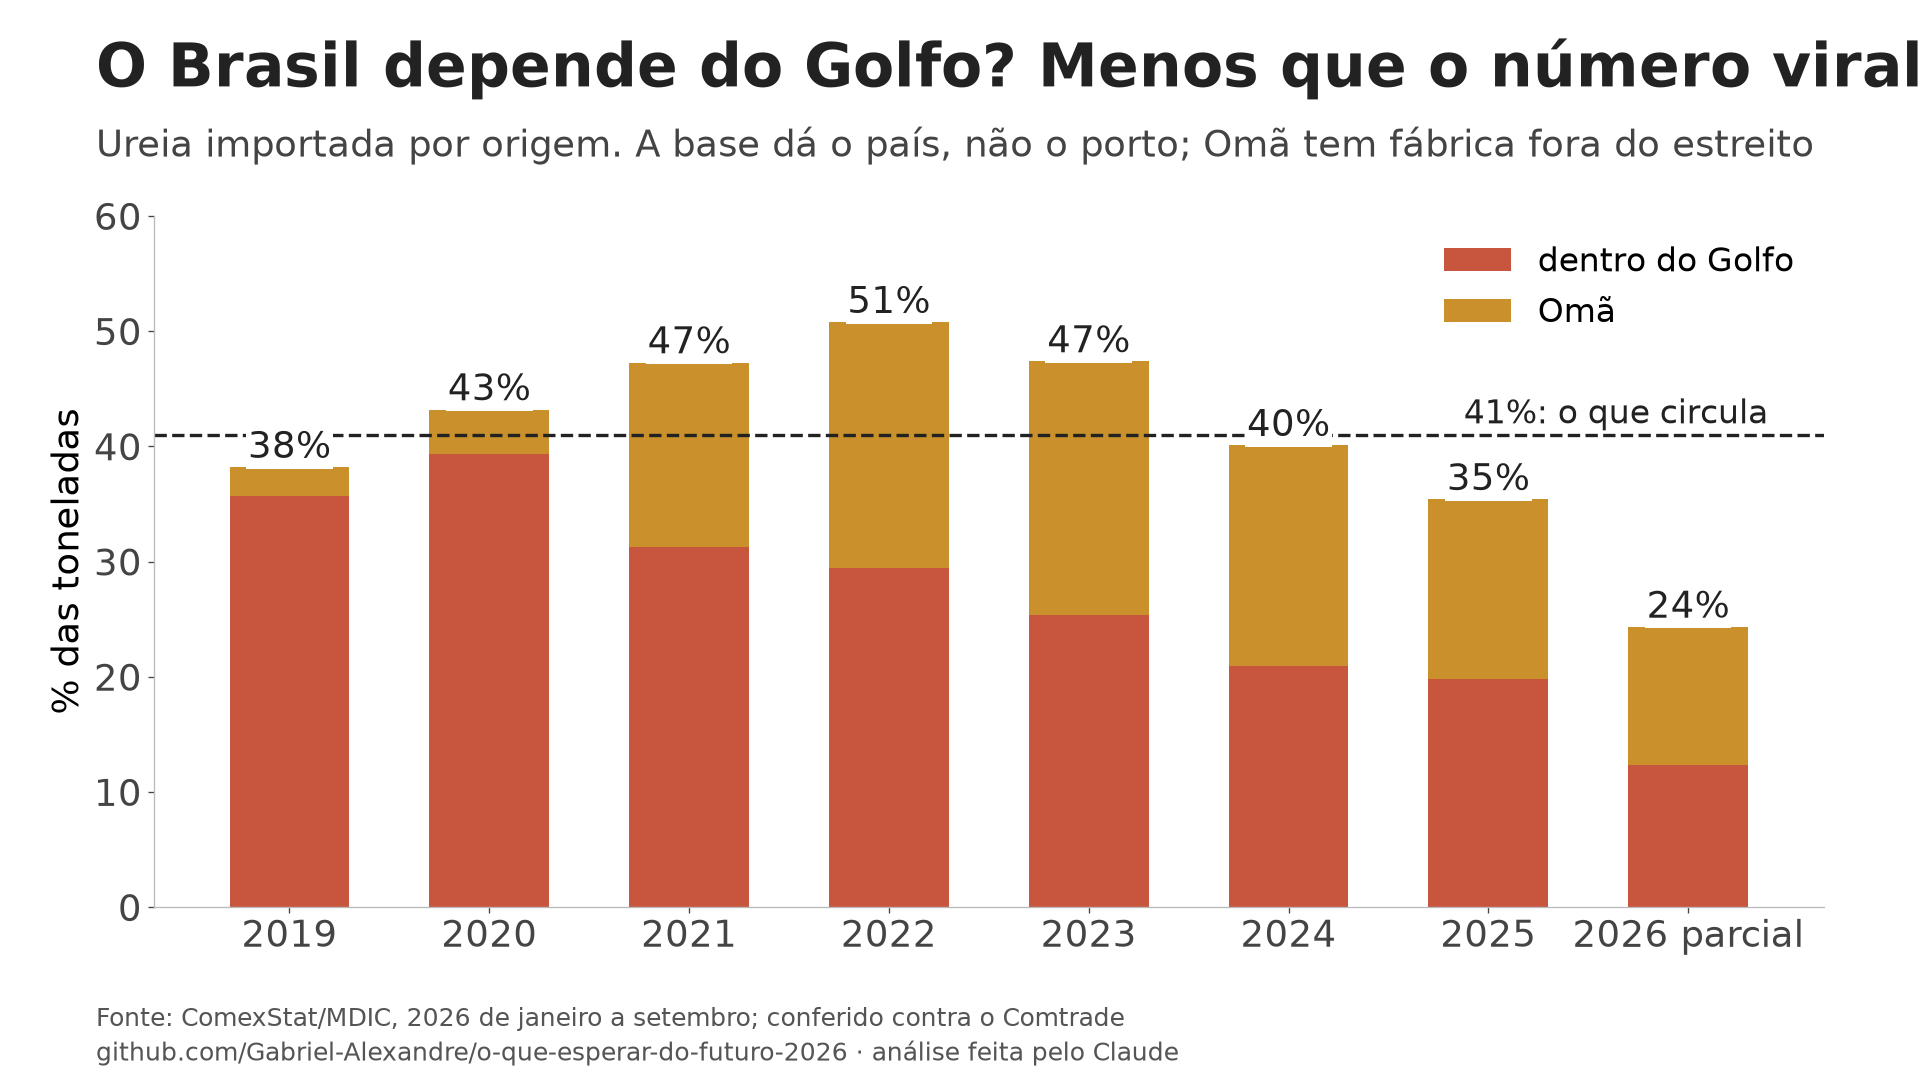
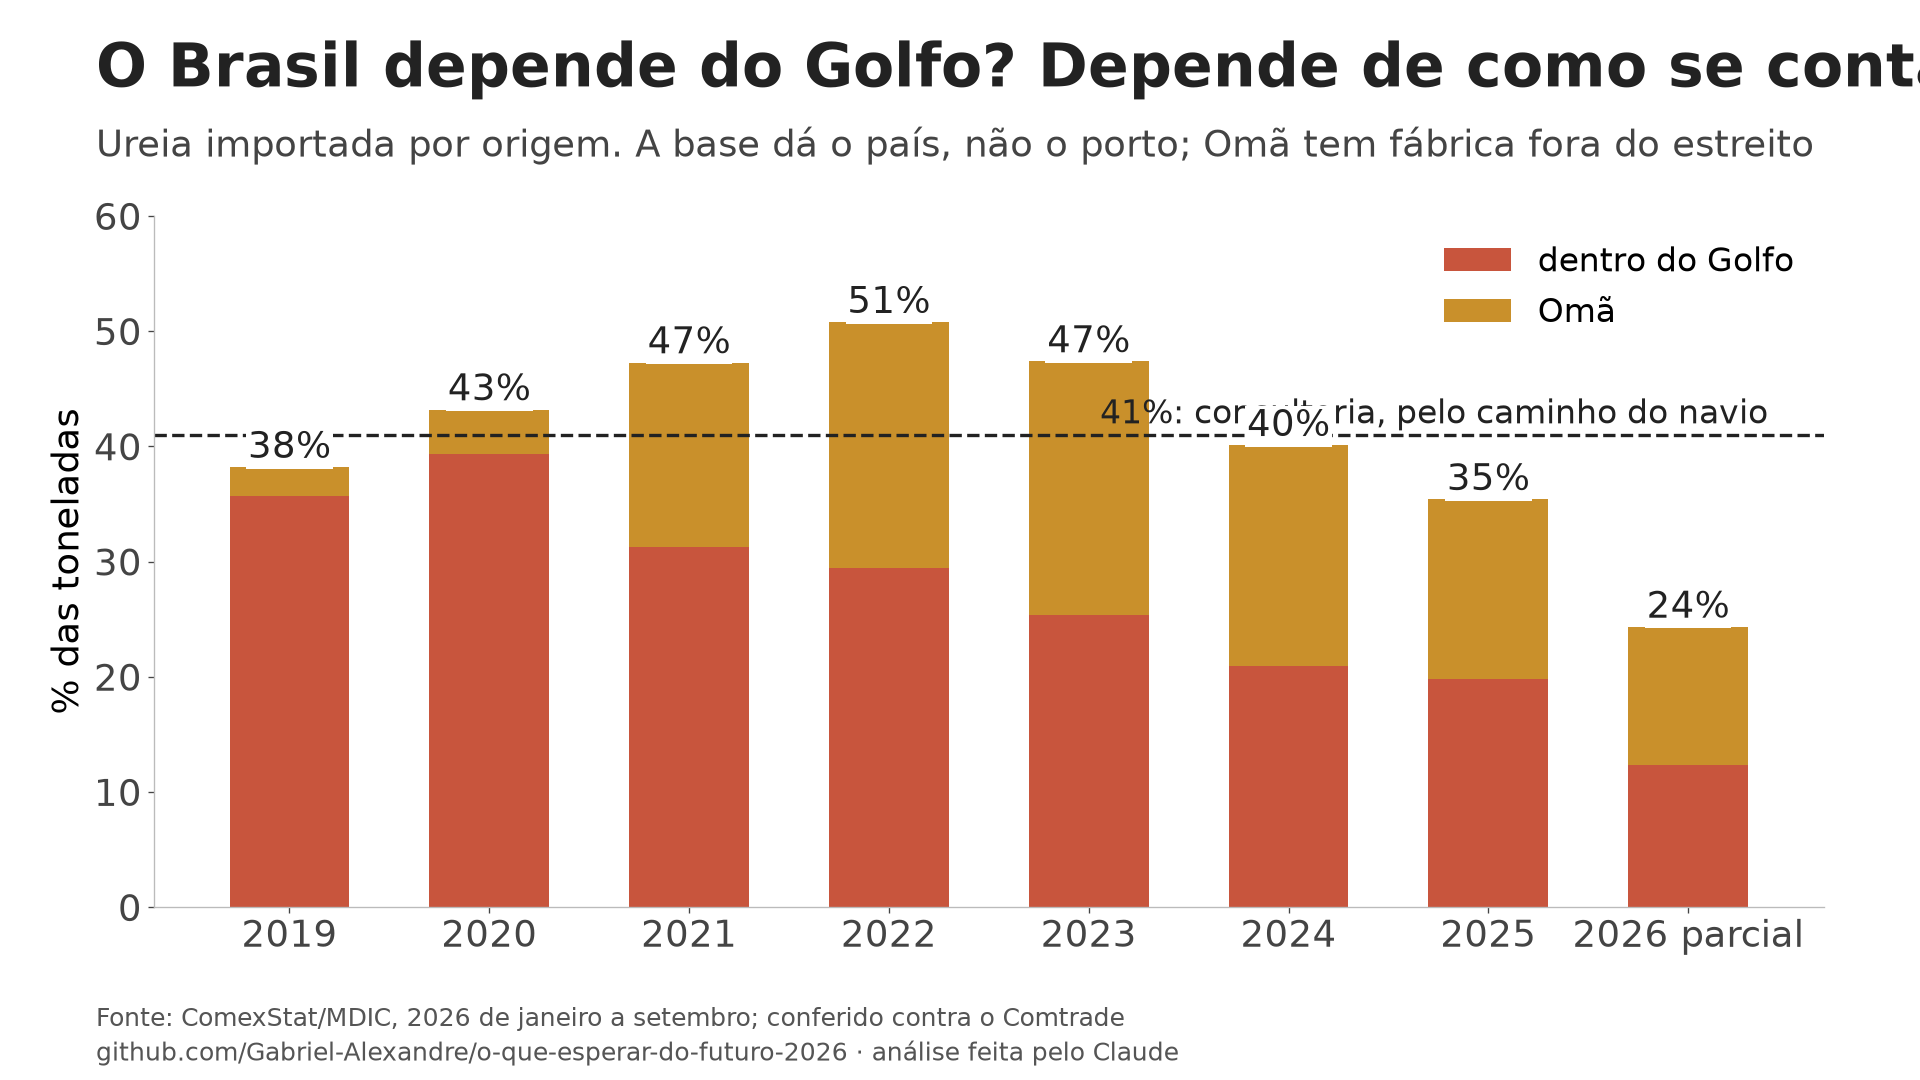
Relatório: 41% como conta de consultoria pela rota, e notas com 12 de 33

Changed region(s): [[0.5312, 0.0306, 1.0, 0.0917], [0.6875, 0.3667, 0.9062, 0.3972], [0.5625, 0.3667, 0.6562, 0.3972]]

diff --git a/ferramentas/graficos.py b/ferramentas/graficos.py
@@ -153,14 +153,14 @@ def g07():
 def g08():
     r = pd.read_csv(DER / "brasil_fertilizantes_resumo.csv")
     u = r[r.recorte.str.contains("ureia", case=False) & (r.ano >= 2019)]
-    f, a = nova("O Brasil depende do Golfo? Menos que o número viral", "Ureia importada por origem. A base dá o país, não o porto; Omã tem fábrica fora do estreito", top=0.8)
+    f, a = nova("O Brasil depende do Golfo? Depende de como se conta", "Ureia importada por origem. A base dá o país, não o porto; Omã tem fábrica fora do estreito", top=0.8)
     anos = u.ano.astype(str).where(u.ano < 2026, "2026 parcial")
     a.bar(anos, u.fatia_dentro_do_golfo_pct, color=TIJOLO, label="dentro do Golfo", width=0.6)
     a.bar(anos, u.fatia_oma_pct, bottom=u.fatia_dentro_do_golfo_pct, color=OURO, label="Omã", width=0.6)
     for x, g, o in zip(anos, u.fatia_dentro_do_golfo_pct, u.fatia_oma_pct):
         a.text(x, g + o + 0.8, f"{g + o:.0f}%".replace(".", ","), ha="center", fontsize=22, color=TINTA, bbox=dict(fc="white", ec="none", pad=1), zorder=5)
     a.axhline(41, color=TINTA, lw=2, ls="--")
-    a.text(7.4, 42, "41%: o que circula", fontsize=20, color=TINTA, ha="right")
+    a.text(7.4, 42, "41%: consultoria, pelo caminho do navio", fontsize=20, color=TINTA, ha="right")
     a.legend(frameon=False, fontsize=20, loc="upper right")
     a.set_ylabel("% das toneladas")
     a.set_ylim(0, 60)

diff --git a/ferramentas/gerar_relatorio.py b/ferramentas/gerar_relatorio.py
@@ -116,7 +116,7 @@ Mercados do dia:
 ## 7. O Brasil
 
 - **Campanha nacional:** não achei. ⚠ A busca do MIDR não foi legível, e o Plano Nacional não foi lido. Há orientações estaduais (`brasil_orientacao_oficial.md`).
-- **Ureia:** em 2025, {n(b['golfo_2025_pct'])}% de dentro do Golfo e {n(b['oma_2025_pct'])}% de Omã, contra os 41% que circulam. A base dá o país, não o porto. Em 2026, até setembro, {n(b['golfo_2026_pct'])}% e {n(b['oma_2026_pct'])}%.
+- **Ureia:** em 2025, {n(b['golfo_2025_pct'])}% de dentro do Golfo e {n(b['oma_2025_pct'])}% de Omã, contra os 41% de uma consultoria, que conta o caminho do navio. A base oficial dá o país, não o porto. Em 2026, até setembro, {n(b['golfo_2026_pct'])}% e {n(b['oma_2026_pct'])}%.
 - **Preço e volume:** US$ {n(b['preco_pico_usd'])} em {b['preco_pico_mes']}, US$ {n(b['preco_ultimo_usd'])} em {b['preco_ultimo_mes']}. As toneladas caíram 21% de janeiro a setembro contra 2025.
 - **Comida:** {n(b['alimentos_12m_ultimo_pct'])}% em 12 meses em {b['alimentos_ultimo_mes']}, contra {n(b['alimentos_fev_2026_pct'])}% em fevereiro. A causa não está separada.
 - **Falta de serviço:** dos {b['casos']} grandes casos da tabela, {b['casos_com_ataque']} foram ataque, e o maior durou {round(b['maior_dias'])} dias (`brasil_interrupcoes_longas.csv`).

diff --git a/dados/derivados/paises_notas.md b/dados/derivados/paises_notas.md
@@ -22,7 +22,7 @@ Captura em 02/nov/2026. Cada linha aponta para um texto lido em `oficiais/<nome>
 | Prazo maior que 72 h | NOR, SWE, EST, POL, CHE, TWN (7 dias), DEU (10), AUT (10 a 14), SGP (14 dias de comida) |
 | Prazo menor que 72 h | ARG (1 dia), HRV (2 dias) |
 | Orientação sem número de dias | USA, MEX, COL, AUS, e ITA fora da lista |
-| Palavra guerra no documento | FRA, DEU, NLD, NOR, SWE, EST, LVA, POL, TWN, SGP (10 dos 33) e a UE |
+| Palavra guerra no documento | FRA, DEU, NLD, NOR, SWE, EST, LVA, POL, TWN, SGP (12 dos 33) e a UE |
 
 ## Data da primeira orientação achada (o que é novo e o que é antigo)
 
@@ -39,7 +39,7 @@ Captura em 02/nov/2026. Cada linha aponta para um texto lido em `oficiais/<nome>
 4. África do Sul e Filipinas na lista: o documento lido é da Cidade do Cabo e de um escritório regional do DSWD. Austrália: o NEMA fala em "several days" e dá "três dias" como exemplo; prazo real é por estado.
 5. Estados Unidos e Índia: sem número de dias (Ready.gov diz "several days").
 6. "72 horas" não é o padrão: nove países da lista pedem uma semana ou mais como meta (NOR, SWE, EST, POL, CHE, TWN, DEU, AUT e SGP, que pede duas semanas de comida).
-7. Guerra: só 10 dos 33 documentos usam a palavra. Dinamarca explica na própria página de perguntas por que não escreve sobre guerra; a Bélgica não usa a palavra (matéria) e a Tchéquia diz que o guia é para crises não militares. Estados Unidos, Canadá, Japão, Nova Zelândia e Irlanda falam de clima e apagão.
+7. Guerra: só 12 dos 33 documentos usam a palavra. Dinamarca explica na própria página de perguntas por que não escreve sobre guerra; a Bélgica não usa a palavra (matéria) e a Tchéquia diz que o guia é para crises não militares. Estados Unidos, Canadá, Japão, Nova Zelândia e Irlanda falam de clima e apagão.
 8. Itália (fora da lista): o manual de 2012 não traz número de dias; Espanha só tem orientação regional (Catalunha); Portugal sem página de kit lida.
 
 ## Lacunas e limites

diff --git a/docs/LEITURA_DA_IA.md b/docs/LEITURA_DA_IA.md
@@ -10,6 +10,6 @@ Análise feita pelo Claude em 02/nov/2026. Ela é uma opinião apoiada nos dados
 
 **A IA entra nisso de duas maneiras.** Como ferramenta de ataque, com alerta oficial de script gerado por IA contra controladores de energia e água. Como analista, nesta análise, e aí com um limite que a pesquisa mostra: modelos ainda ficam atrás dos melhores previsores humanos. Por isso o registro.
 
-**Para o Brasil, o que os dados sustentam não é a guerra.** É apagão por temporal, seca, preço de comida e diesel. Nenhum dos grandes casos da tabela foi ataque, e o Amapá ficou 22 dias. O número viral de 41% do adubo por Ormuz não aparece em 2025 no dado oficial (19,84% de dentro do Golfo, 35,40% somando Omã), e o volume caiu 21% em 2026. Três dias de água e comida em casa têm razão de ser aqui, e por outro motivo.
+**Para o Brasil, o que os dados sustentam não é a guerra.** É apagão por temporal, seca, preço de comida e diesel. Nenhum dos grandes casos da tabela foi ataque, e o Amapá ficou 22 dias. Os 41% do adubo por Ormuz são de uma consultoria que conta o caminho do navio; o dado oficial conta o país de origem e dá, em 2025, 19,84% de dentro do Golfo e 35,40% somando Omã, e o volume caiu 21% em 2026. Três dias de água e comida em casa têm razão de ser aqui, e por outro motivo.
 
 **O que eu mudaria de opinião ao ver:** convocação ampla, evacuação planejada ou racionamento em vigor em país da OTAN ou em Taiwan.

diff --git a/RELATORIO.md b/RELATORIO.md
@@ -132,7 +132,7 @@ Mercados do dia:
 ## 7. O Brasil
 
 - **Campanha nacional:** não achei. ⚠ A busca do MIDR não foi legível, e o Plano Nacional não foi lido. Há orientações estaduais (`brasil_orientacao_oficial.md`).
-- **Ureia:** em 2025, 19,84% de dentro do Golfo e 15,56% de Omã, contra os 41% que circulam. A base dá o país, não o porto. Em 2026, até setembro, 12,37% e 11,96%.
+- **Ureia:** em 2025, 19,84% de dentro do Golfo e 15,56% de Omã, contra os 41% de uma consultoria, que conta o caminho do navio. A base oficial dá o país, não o porto. Em 2026, até setembro, 12,37% e 11,96%.
 - **Preço e volume:** US$ 585,9 em 2026-06, US$ 406,2 em 2026-09. As toneladas caíram 21% de janeiro a setembro contra 2025.
 - **Comida:** 4,21% em 12 meses em 2026-09, contra -0,09% em fevereiro. A causa não está separada.
 - **Falta de serviço:** dos 10 grandes casos da tabela, 0 foram ataque, e o maior durou 22 dias (`brasil_interrupcoes_longas.csv`).
